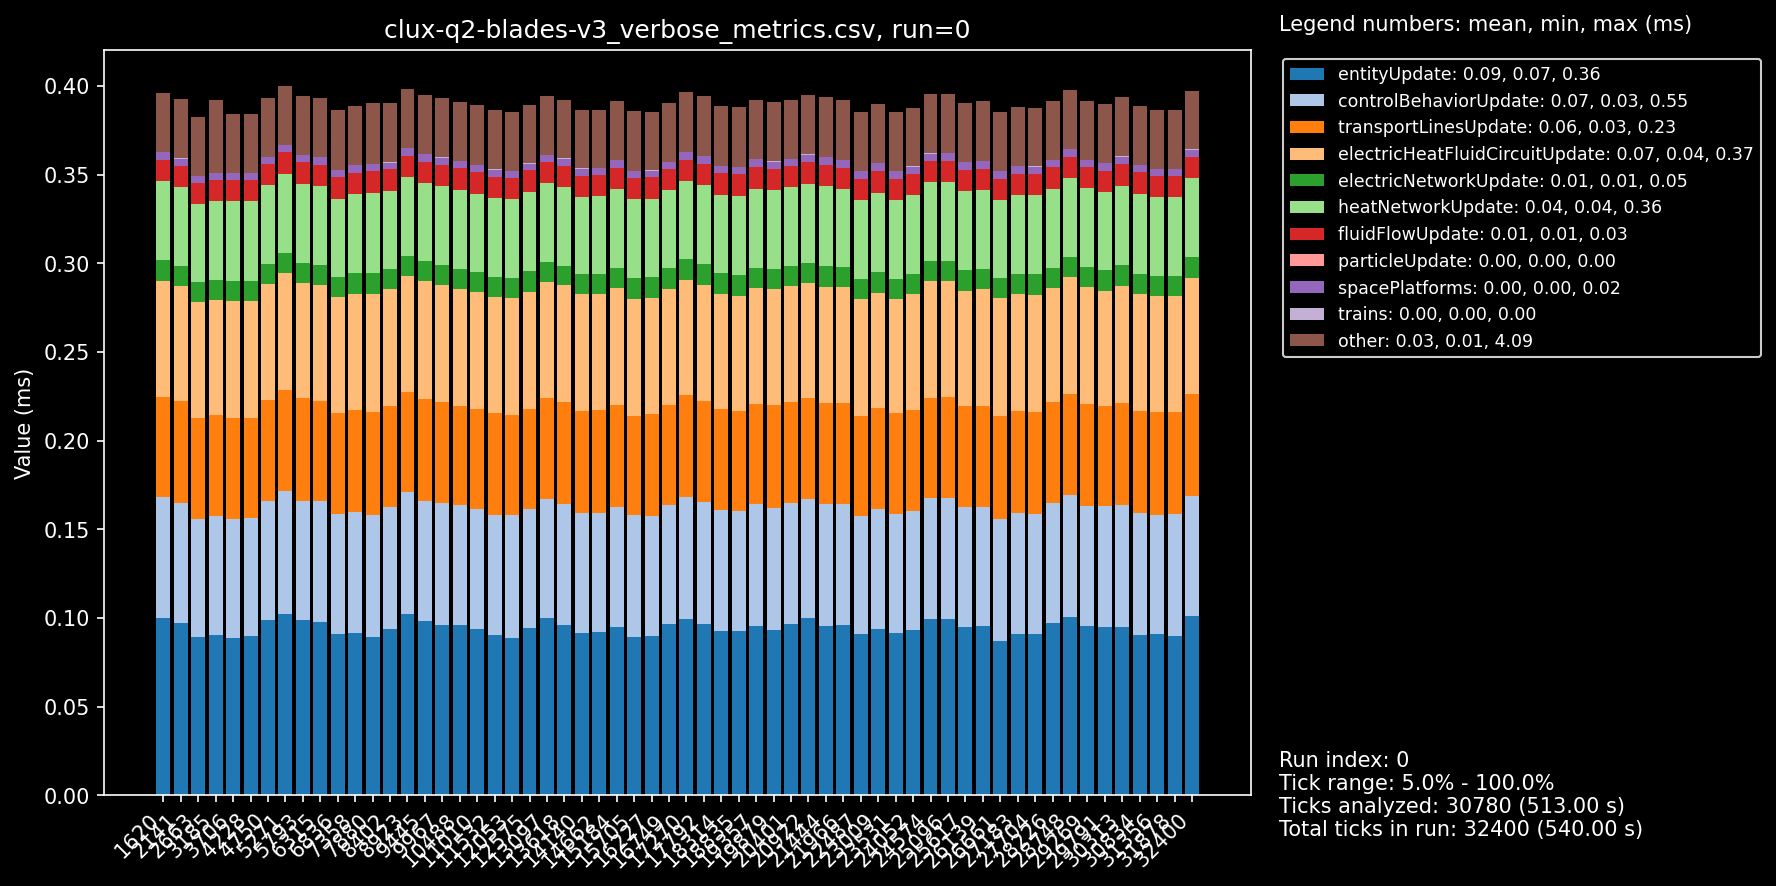
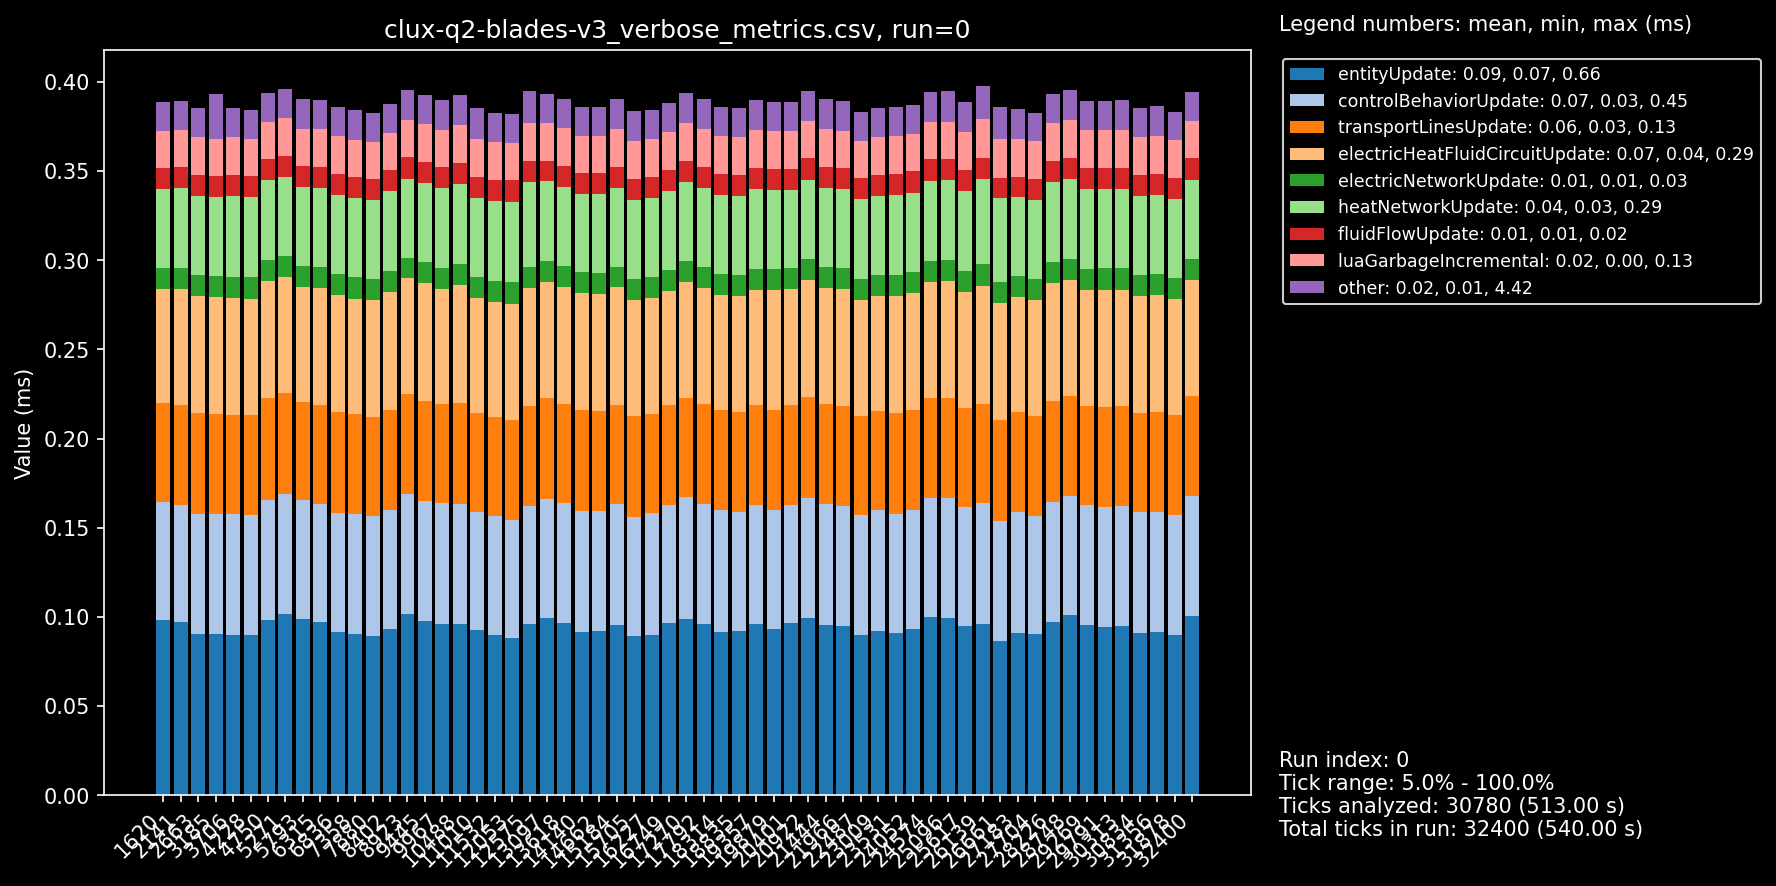
update bench

diff --git a/scripts/entity_graph.py b/scripts/entity_graph.py
@@ -153,17 +153,18 @@ PARAM_COLUMNS = [
 "electricNetworkUpdate",
 "heatNetworkUpdate",
 "fluidFlowUpdate",
-"particleUpdate",
-"spacePlatforms",
+# "particleUpdate",
+# "spacePlatforms",
+# "planetsUpdate",
 # "consistencyScraper",
 # "logisticManagerUpdate",
 # "constructionManagerUpdate",
 # "pathFinder",
-"trains",
+# "trains",
 # "trainPathFinder",
 # "commander",
 # "chartRefresh",
-# "luaGarbageIncremental",
+"luaGarbageIncremental",
 # "chartUpdate",
 # "scriptUpdate",
 ]

diff --git a/aquilo/benches/README.md b/aquilo/benches/README.md
@@ -2,7 +2,7 @@
 
 **Platform:** linux-x86_64
 **Factorio Version:** 2.0.73
-**Date:** 2026-02-01
+**Date:** 2026-02-03
 
 ## Scenario
 * Each save was tested for 32400 tick(s) and 5 run(s)
@@ -17,11 +17,11 @@
 
 | Save | Avg (ms) | Min (ms) | Max (ms) | UPS | Execution Time (ms) | % Difference from base |
 |------|----------|----------|----------|-----|---------------------|------------------------|
-| clux-q2-blades-v1 | 0.537 | 0.389 | 4.977 | 1863 | 86918 | 0.00% |
-| clux-q2-blades-v1-heatsep | 0.415 | 0.283 | 5.016 | 2407 | 67287 | 29.18% |
-| clux-q2-blades-v3 | 0.378 | 0.246 | 4.938 | 2647 | 61200 | 42.02% |
-| clux-q2-blades-v5-miniheat | 0.370 | 0.233 | 4.361 | 2701 | 59965 | 44.95% |
-| clux-q2-blades-v5 | 0.364 | 0.225 | 4.544 | **2745** | 58999 | 47.32% |
+| clux-q2-blades-v1 | 0.534 | 0.385 | 5.089 | 1872 | 86511 | 0.00% |
+| clux-q2-blades-v1-heatsep | 0.413 | 0.272 | 5.010 | 2421 | 66907 | 29.30% |
+| clux-q2-blades-v3 | 0.378 | 0.239 | 4.811 | 2645 | 61234 | 41.28% |
+| clux-q2-blades-v5-miniheat | 0.363 | 0.216 | 4.239 | 2756 | 58774 | 47.19% |
+| clux-q2-blades-v5 | 0.361 | 0.219 | 4.444 | **2768** | 58508 | 47.86% |
 
 ## Conclusion
 This is basically comparing;
